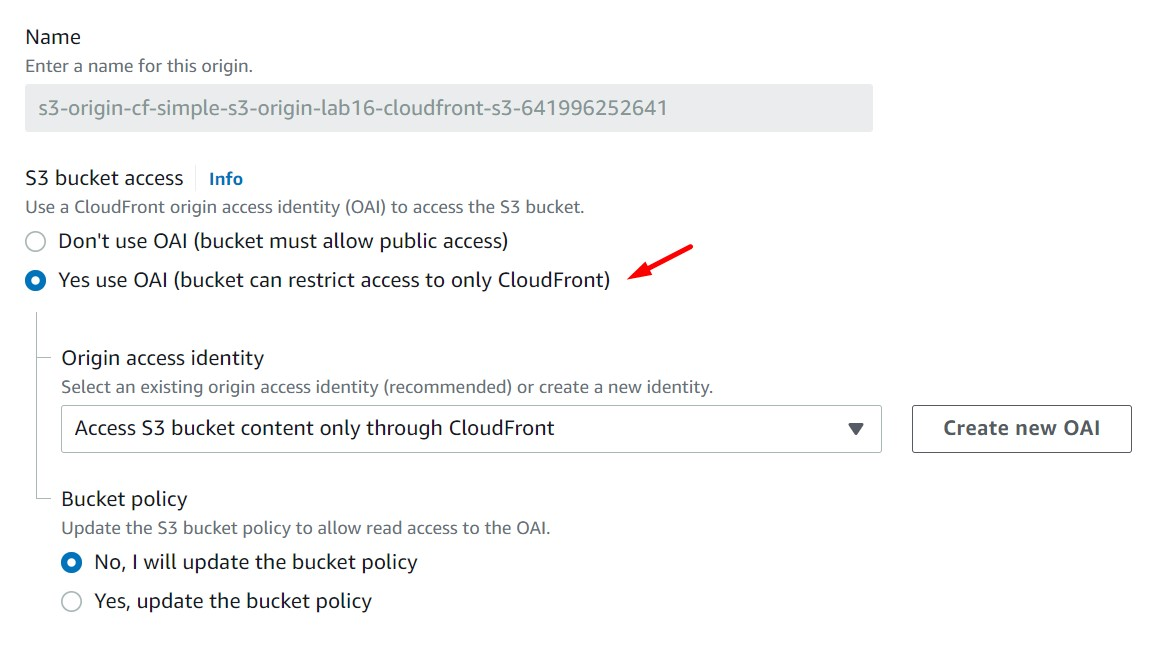
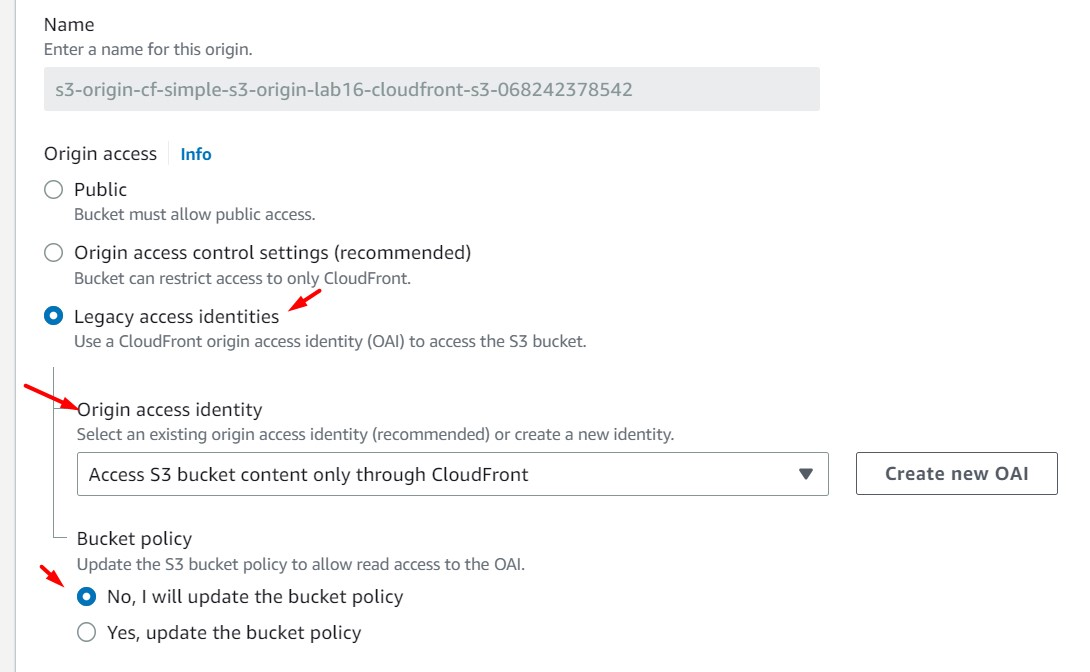
Update Lab-16

Changed region(s): [[0.0, 0.2124, 0.967, 0.9712], [0.0, 0.0303, 0.5927, 0.1821]]

diff --git a/Lab-16/README-Lab16.md b/Lab-16/README-Lab16.md
@@ -66,7 +66,7 @@ aws s3 sync . s3://$BUCKET
 
 <br>
 
-9. Desde Cloud9, realizamos modificaciones en el archivo index.html (línea 59, por ejemplo agregar v2, luego guardar con CTRL+S). Movemos este cambio a nuestro bucket de S3.
+9. Desde Cloud9, realizamos modificaciones en el archivo index.html (línea 59, por ejemplo agregar v2, luego guardar con CTRL+S). Movemos este cambio a nuestro bucket de S3. El archivo index.html se encuentra en la ruta "/environment/aws-solutionsarchitectassociate/Lab-16/code/2_lab16-s3-html-resources"
 
 ```bash
 cd ~/environment/aws-solutionsarchitectassociate/Lab-16/code/2_lab16-s3-html-resources
@@ -74,6 +74,12 @@ BUCKET=$(aws s3 ls | sort -r | awk 'NR ==1 { print $3 }')
 echo $BUCKET
 aws s3 sync . s3://$BUCKET
 ```
+
+<br>
+
+<img src="images/Lab16_03.jpg">
+
+<br>
 
 10. Accedemos nuevamente a la dirección URL generada por CloudFront. Validaremos que nuestro cambio realizado no se visualiza. Ejecutamos la siguiente invalidación a través de AWSCLI. Reemplazar el valor $DistributionID por el correcto. Luego de la ejecución de la invalidación visualizaremos el cambio de nuestra aplicación desde el navegador.
 
@@ -84,11 +90,6 @@ aws cloudfront create-invalidation --distribution-id $DistributionID --paths "/*
 aws cloudfront create-invalidation --distribution-id E8XMV1O9QX83H --paths "/index.html"
 ```
 
-<br>
-
-<img src="images/Lab16_03.jpg">
-
-<br>
 
 <img src="images/Lab16_04.jpg">
 
@@ -136,11 +137,16 @@ aws s3 sync . s3://$BUCKET
 
 <br>
 
-### C - Identificar la configuración OAI (Origin Access Identities) en la distribución CloudFront y el bucket S3 
+### C - Identificar la configuración OAI (Origin Access Identities) creada en la distribución CloudFront y su integración a un bucket S3 
 
 14. Identificar el componente OAI  (Origin Access Identities) en los componentes desplegados (CloudFront y S3)
 
-* CloudFront > Distributions > $DISTRIBUTIONID > Edit origin
+    * Accedemos al servicio CloudFront, luego accedemos a la "Distribution" respectiva. Accdemos a la opción "Origins", seleccionamos el origin "s3-origin-cf-simple-s3-origin-lab16-cloudfront-s3-*" y damos clic en el botón "Edit" 
+    * Identificamos que la configuración actual (generada desde CloudFormation) cuenta con una configuración OAI
+
+<br>
+
+<img src="images/Lab16_12.jpg">
 
 <br>
 
@@ -148,7 +154,7 @@ aws s3 sync . s3://$BUCKET
 
 <br>
 
-* S3 > Bucket S3 > Permissions > Bucket Policy
+15. Accedemos al bucket S3 integrado con CloudFront, luego a la opción "Permissions" y nos dirigimos a la sección "Bucket Policy". Analizamos la política basada en recursos.
 
 <br>
 
@@ -156,20 +162,21 @@ aws s3 sync . s3://$BUCKET
 
 <br>
 
-15. Identificación del componente TTL en la distribución CloudFront (CloudFront > Distributions > $DISTRIBUTIONID > Edit behavior > "Cache key and origin requests")
+16. El ID identificado identificado en la política S3, lo podemos encontrar en la sección "Security > Origin Access" del servicio CloudFront
+
 
 <br>
 
-<img src="images/Lab16_09.jpg">
+<img src="images/Lab16_13.jpg">
 
 <br>
-
-
 
 ### Eliminación de recursos
 
 ```bash
+#Eliminar contenido del bucket S3
 aws cloudformation delete-stack --stack-name lab16-cloudfront-s3
+#Eliminar Cloud9
 ```
 
 ---
